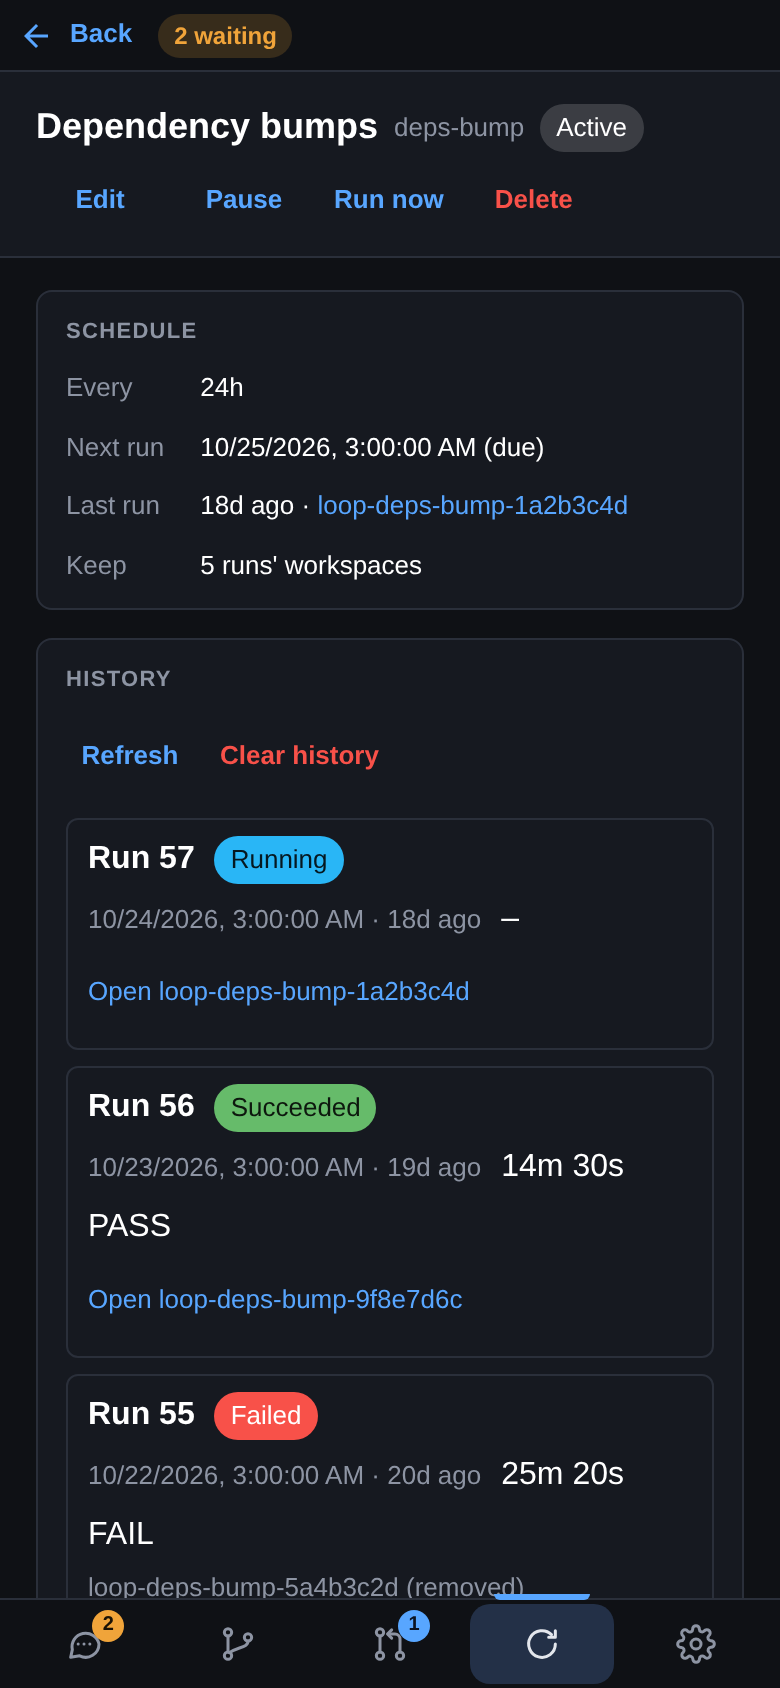
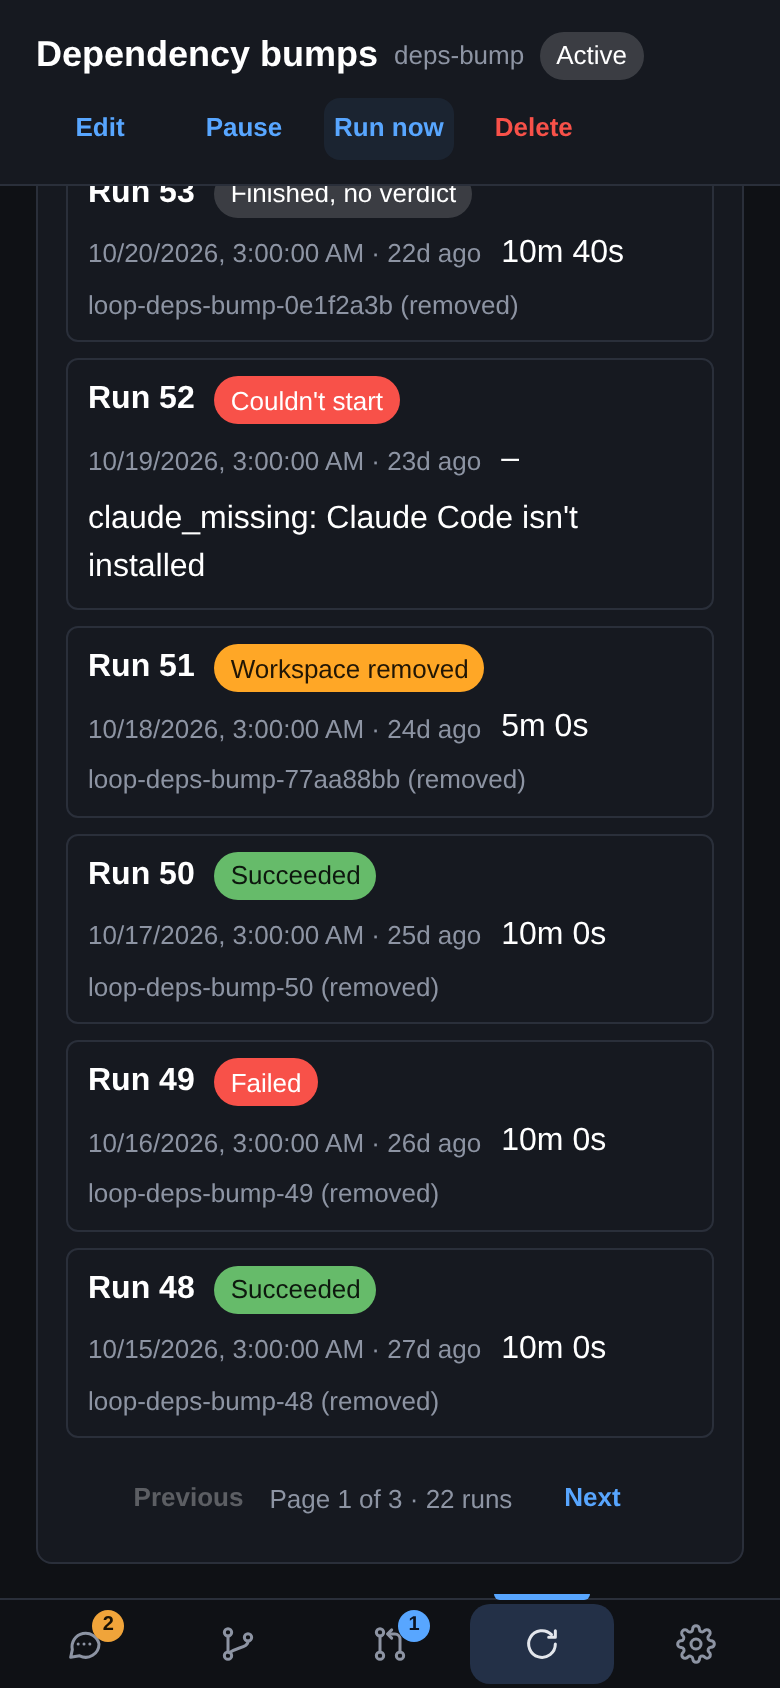
feat: paginate loop history and move it to the bottom of the loop view (#52)

diff --git a/desktop/src/features/loops/HistoryCard.tsx b/desktop/src/features/loops/HistoryCard.tsx
@@ -2,14 +2,17 @@ import { Button, Chip, Dialog, DialogActions, DialogContent, DialogContentText, 
 import { useEffect, useState, type JSX } from "react";
 import type { Loop, LoopHistoryRun } from "../../api";
 import { age } from "../../format";
-import { useAppDispatch, useAppSelector, useAppStore } from "../../store";
+import { useAppDispatch, useAppSelector } from "../../store";
 import { selected, sectionChosen } from "../ui/uiSlice";
 import { Card } from "./Card";
 import { formatDuration, runSummary, statusColor, statusLabel } from "./history";
-import { clearLoopHistory, fetchLoopHistory, historyPageSize, runClosed } from "./loopDataSlice";
+import { clearLoopHistory, fetchLoopHistory, historyFetchLimit, runClosed } from "./loopDataSlice";
 import { loopLabel } from "./formValues";
 import { RunDialog } from "./RunDialog";
 import styles from "./HistoryCard.module.css";
+
+/** Runs shown per page of a loop's history. */
+export const historyPageSize = 10;
 
 const WorkspaceLink = ({ run, disabled }: { readonly run: LoopHistoryRun; readonly disabled: boolean }): JSX.Element | null => {
   const dispatch = useAppDispatch();
@@ -50,28 +53,35 @@ const RunRow = ({ run, disabled, onOpen }: { readonly run: LoopHistoryRun; reado
   </li>
 );
 
-/** The loop's recent runs, newest first, with a dialog per run and the history's own actions. */
+/** The loop's runs, newest first, a page at a time, with a dialog per run and the history's own actions. */
 export const HistoryCard = ({ loop }: { readonly loop: Loop }): JSX.Element => {
   const dispatch = useAppDispatch();
-  const store = useAppStore();
-  const data = useAppSelector((s) => s.loopData);
+    const data = useAppSelector((s) => s.loopData);
   const busy = useAppSelector((s) => s.loops.busy === loop.name);
   const [openSeq, setOpenSeq] = useState<number | null>(null);
   const [confirming, setConfirming] = useState(false);
+  const [page, setPage] = useState(0);
   const lastStarted = loop.lastRun?.startedAt ?? null;
   const held = data.loop === loop.name;
   const history = held ? data.history : null;
   const error = held ? data.historyError : null;
 
   useEffect(() => {
-    const current = store.getState().loopData;
-    const limit = current.loop === loop.name ? current.historyLimit : historyPageSize;
-    void dispatch(fetchLoopHistory({ name: loop.name, limit }));
-  }, [dispatch, store, loop.name, lastStarted]);
+    setPage(0);
+  }, [loop.name]);
+
+  useEffect(() => {
+    void dispatch(fetchLoopHistory({ name: loop.name, limit: historyFetchLimit }));
+  }, [dispatch, loop.name, lastStarted]);
 
   const refresh = (): void => {
-    void dispatch(fetchLoopHistory({ name: loop.name, limit: data.historyLimit }));
+    void dispatch(fetchLoopHistory({ name: loop.name, limit: historyFetchLimit }));
   };
+
+  const runs = history?.runs ?? [];
+  const pages = Math.max(1, Math.ceil(runs.length / historyPageSize));
+  const current = Math.min(page, pages - 1);
+  const shown = runs.slice(current * historyPageSize, (current + 1) * historyPageSize);
 
   return (
     <Card title="History">
@@ -94,21 +104,26 @@ export const HistoryCard = ({ loop }: { readonly loop: Loop }): JSX.Element => {
             </Button>
           </div>
         )}
-        {history !== null && history.runs.length === 0 && <p className={styles.muted}>No runs yet.</p>}
-        {history !== null && history.runs.length > 0 && (
+        {history !== null && runs.length === 0 && <p className={styles.muted}>No runs yet.</p>}
+        {runs.length > 0 && (
           <ul aria-label="Run history" className={styles.runs}>
-            {history.runs.map((run) => (
+            {shown.map((run) => (
               <RunRow key={run.seq} run={run} disabled={busy} onOpen={() => setOpenSeq(run.seq)} />
             ))}
           </ul>
         )}
-        {history !== null && history.runs.length < history.total && (
-          <Button
-            size="small"
-            onClick={() => void dispatch(fetchLoopHistory({ name: loop.name, limit: data.historyLimit + historyPageSize }))}
-          >
-            Show more
-          </Button>
+        {pages > 1 && (
+          <nav aria-label="History pages" className={styles.pager}>
+            <Button size="small" disabled={current === 0} onClick={() => setPage(current - 1)}>
+              Previous
+            </Button>
+            <span className={styles.muted}>
+              Page {current + 1} of {pages} · {runs.length} runs
+            </span>
+            <Button size="small" disabled={current >= pages - 1} onClick={() => setPage(current + 1)}>
+              Next
+            </Button>
+          </nav>
         )}
       </div>
       {openSeq !== null && (

diff --git a/desktop/src/features/loops/HistoryCard.test.tsx b/desktop/src/features/loops/HistoryCard.test.tsx
@@ -48,22 +48,51 @@ describe("HistoryCard", () => {
     expect(await screen.findByText("Bumped two packages.")).toBeInTheDocument();
   });
 
-  it("loads the next page of runs with Show more", async () => {
-    const api = fakeApi({ loopsHistory: vi.fn(async () => history({ total: 25 })) });
+  const manyRuns = (count: number): LoopHistory =>
+    history({ runs: Array.from({ length: count }, (_, i) => loopHistoryRun({ seq: count - i })), total: count });
+
+  it("asks for the whole history once and shows it ten runs at a time", async () => {
+    const api = fakeApi({ loopsHistory: vi.fn(async () => manyRuns(25)) });
     renderWithStore(<HistoryCard loop={loop()} />, testStore({ api }));
-    await userEvent.click(await screen.findByRole("button", { name: "Show more" }));
-    expect(api.loopsHistory).toHaveBeenLastCalledWith("deps", 40);
+    const list = await screen.findByRole("list", { name: "Run history" });
+    expect(api.loopsHistory).toHaveBeenCalledWith("deps", 200);
+    expect(within(list).getAllByRole("listitem")).toHaveLength(10);
+    expect(within(list).getByRole("button", { name: /Run 25\b/ })).toBeInTheDocument();
+    expect(screen.getByText("Page 1 of 3 · 25 runs")).toBeInTheDocument();
+    expect(screen.getByRole("button", { name: "Previous" })).toBeDisabled();
   });
 
-  it("loads the first page for another loop after Show more on this one", async () => {
-    const api = fakeApi({ loopsHistory: vi.fn(async () => history({ total: 25 })) });
+  it("moves between pages with Next and Previous", async () => {
+    const api = fakeApi({ loopsHistory: vi.fn(async () => manyRuns(25)) });
+    renderWithStore(<HistoryCard loop={loop()} />, testStore({ api }));
+    await screen.findByRole("list", { name: "Run history" });
+    await userEvent.click(screen.getByRole("button", { name: "Next" }));
+    expect(screen.getByText("Page 2 of 3 · 25 runs")).toBeInTheDocument();
+    expect(screen.getByRole("button", { name: /Run 15\b/ })).toBeInTheDocument();
+    await userEvent.click(screen.getByRole("button", { name: "Next" }));
+    expect(screen.getAllByRole("listitem")).toHaveLength(5);
+    expect(screen.getByRole("button", { name: "Next" })).toBeDisabled();
+    await userEvent.click(screen.getByRole("button", { name: "Previous" }));
+    expect(screen.getByText("Page 2 of 3 · 25 runs")).toBeInTheDocument();
+  });
+
+  it("shows no pager when everything fits on one page", async () => {
+    const api = fakeApi({ loopsHistory: vi.fn(async () => manyRuns(10)) });
+    renderWithStore(<HistoryCard loop={loop()} />, testStore({ api }));
+    await screen.findByRole("list", { name: "Run history" });
+    expect(screen.queryByRole("navigation", { name: "History pages" })).not.toBeInTheDocument();
+  });
+
+  it("goes back to the first page when another loop is shown", async () => {
+    const api = fakeApi({ loopsHistory: vi.fn(async (name: string) => ({ ...manyRuns(25), loop: name })) });
     const store = testStore({ api });
     const first = renderWithStore(<HistoryCard loop={loop()} />, store);
-    await userEvent.click(await screen.findByRole("button", { name: "Show more" }));
-    await waitFor(() => expect(store.getState().loopData.historyLimit).toBe(40));
+    await screen.findByRole("list", { name: "Run history" });
+    await userEvent.click(screen.getByRole("button", { name: "Next" }));
     first.unmount();
     renderWithStore(<HistoryCard loop={loop({ name: "nightly" })} />, store);
-    await waitFor(() => expect(api.loopsHistory).toHaveBeenLastCalledWith("nightly", 20));
+    await waitFor(() => expect(api.loopsHistory).toHaveBeenLastCalledWith("nightly", 200));
+    await waitFor(() => expect(screen.getByText("Page 1 of 3 · 25 runs")).toBeInTheDocument());
   });
 
   it("closes a run's report with Close", async () => {

diff --git a/desktop/src/features/loops/loopDataSlice.ts b/desktop/src/features/loops/loopDataSlice.ts
@@ -12,15 +12,13 @@ import {
 import { createAppThunk } from "../../thunk";
 import { noticeShown } from "../ui/uiSlice";
 
-/** Runs shown per page of a loop's history; "Show more" adds one more page. */
-export const historyPageSize = 20;
+/** How many runs one history fetch asks for: all of a loop's retained history (ws keeps 200). */
+export const historyFetchLimit = 200;
 
 export interface LoopDataState {
   /** Whose data is held; reset when it changes. */
   readonly loop: string | null;
   readonly history: LoopHistory | null;
-  /** How many runs the history asks for. */
-  readonly historyLimit: number;
   readonly historyError: AppError | null;
   /** The run open in the dialog. */
   readonly run: LoopRunDetail | null;
@@ -35,7 +33,6 @@ export interface LoopDataState {
 const initialState: LoopDataState = {
   loop: null,
   history: null,
-  historyLimit: historyPageSize,
   historyError: null,
   run: null,
   runLoading: false,
@@ -77,10 +74,10 @@ export const fetchLoopRun = createAppThunk<LoopRunDetail, { name: string; seq: n
 /** Clears a loop's history, then loads the history again. */
 export const clearLoopHistory = createAppThunk<LoopCleared, string>(
   "loopData/clearHistory",
-  async (name, { extra, dispatch, getState, rejectWithValue }) => {
+  async (name, { extra, dispatch, rejectWithValue }) => {
     try {
       const cleared = await extra.api.loopsHistoryClear(name);
-      await dispatch(fetchLoopHistory({ name, limit: getState().loopData.historyLimit }));
+      await dispatch(fetchLoopHistory({ name, limit: historyFetchLimit }));
       return cleared;
     } catch (err: unknown) {
       const error = toAppError(err);
@@ -158,7 +155,6 @@ const loopDataSlice = createSlice({
       .addCase(fetchLoopHistory.fulfilled, (state, action): LoopDataState => ({
         ...holding(state, action.payload.loop),
         history: action.payload,
-        historyLimit: action.meta.arg.limit,
         historyError: null,
       }))
       .addCase(fetchLoopHistory.rejected, (state, action): LoopDataState => ({

diff --git a/desktop/test/tauri-mock.js b/desktop/test/tauri-mock.js
@@ -463,6 +463,28 @@
     return found;
   };
 
+  // Older runs so the history has more than one page.
+  const bump = data.loopHistory["deps-bump"];
+  for (let seq = 50; seq >= 36; seq -= 1) {
+    const day = String(seq - 33).padStart(2, "0");
+    bump.runs.push({
+      seq,
+      status: seq % 7 === 0 ? "failed" : "succeeded",
+      trigger: "tick",
+      startedAt: `2026-10-${day}T08:00:00Z`,
+      finishedAt: `2026-10-${day}T08:10:00Z`,
+      durationSeconds: 600,
+      workspace: `loop-deps-bump-${seq}`,
+      workspaceExists: false,
+      session: null,
+      error: null,
+      gate: null,
+      repeats: 1,
+      verdict: null,
+    });
+  }
+  bump.total = bump.runs.length;
+
   const historyOf = (name) => data.loopHistory[name] ?? { total: 0, runs: [], reports: {} };
 
   const memoryOf = (name) => data.loopMemory[name] ?? { entries: [] };

diff --git a/desktop/src/features/loops/LoopsPane.tsx b/desktop/src/features/loops/LoopsPane.tsx
@@ -190,13 +190,13 @@ const LoopDetail = ({ loop }: { readonly loop: Loop }): JSX.Element => {
       </header>
       <div className={styles.body}>
         <ScheduleCard loop={loop} busy={busy} />
-        <HistoryCard loop={loop} />
         <PromptCard loop={loop} />
         <ReposCard loop={loop} />
         <AgentCard loop={loop} />
         <GateCard loop={loop} />
         <VarsCard loop={loop} />
         <MemoryCard loop={loop} />
+        <HistoryCard loop={loop} />
       </div>
       <Dialog open={confirming} onClose={() => setConfirming(false)}>
         <DialogTitle>Delete loop {loopLabel(loop)}?</DialogTitle>

diff --git a/desktop/src/features/loops/LoopsPane.test.tsx b/desktop/src/features/loops/LoopsPane.test.tsx
@@ -253,4 +253,11 @@ describe("LoopsPane", () => {
     expect(screen.getByRole("region", { name: "History" })).toBeInTheDocument();
     expect(screen.getByRole("region", { name: "Memory" })).toBeInTheDocument();
   });
+
+  it("puts the History card last, after Memory", () => {
+    renderWithStore(<LoopsPane />, storeWithLoop());
+    const titles = screen.getAllByRole("heading", { level: 2 }).map((heading) => heading.textContent);
+    expect(titles.at(-1)).toBe("History");
+    expect(titles.indexOf("Memory")).toBeLessThan(titles.indexOf("History"));
+  });
 });

diff --git a/desktop/src/features/loops/loopDataSlice.test.ts b/desktop/src/features/loops/loopDataSlice.test.ts
@@ -10,7 +10,6 @@ describe("loop data", () => {
     const store = testStore({ api: fakeApi({ loopsHistory: vi.fn(async () => history) }) });
     await store.dispatch(fetchLoopHistory({ name: "deps", limit: 20 }));
     expect(store.getState().loopData.history).toEqual(history);
-    expect(store.getState().loopData.historyLimit).toBe(20);
     expect(store.getState().loopData.historyError).toBeNull();
   });
 

diff --git a/desktop/src/features/loops/HistoryCard.module.css b/desktop/src/features/loops/HistoryCard.module.css
@@ -11,6 +11,14 @@
   gap: 8px;
 }
 
+.pager {
+  display: flex;
+  flex-wrap: wrap;
+  align-items: center;
+  justify-content: center;
+  gap: 8px;
+}
+
 .muted {
   margin: 0;
   color: var(--text-muted);
